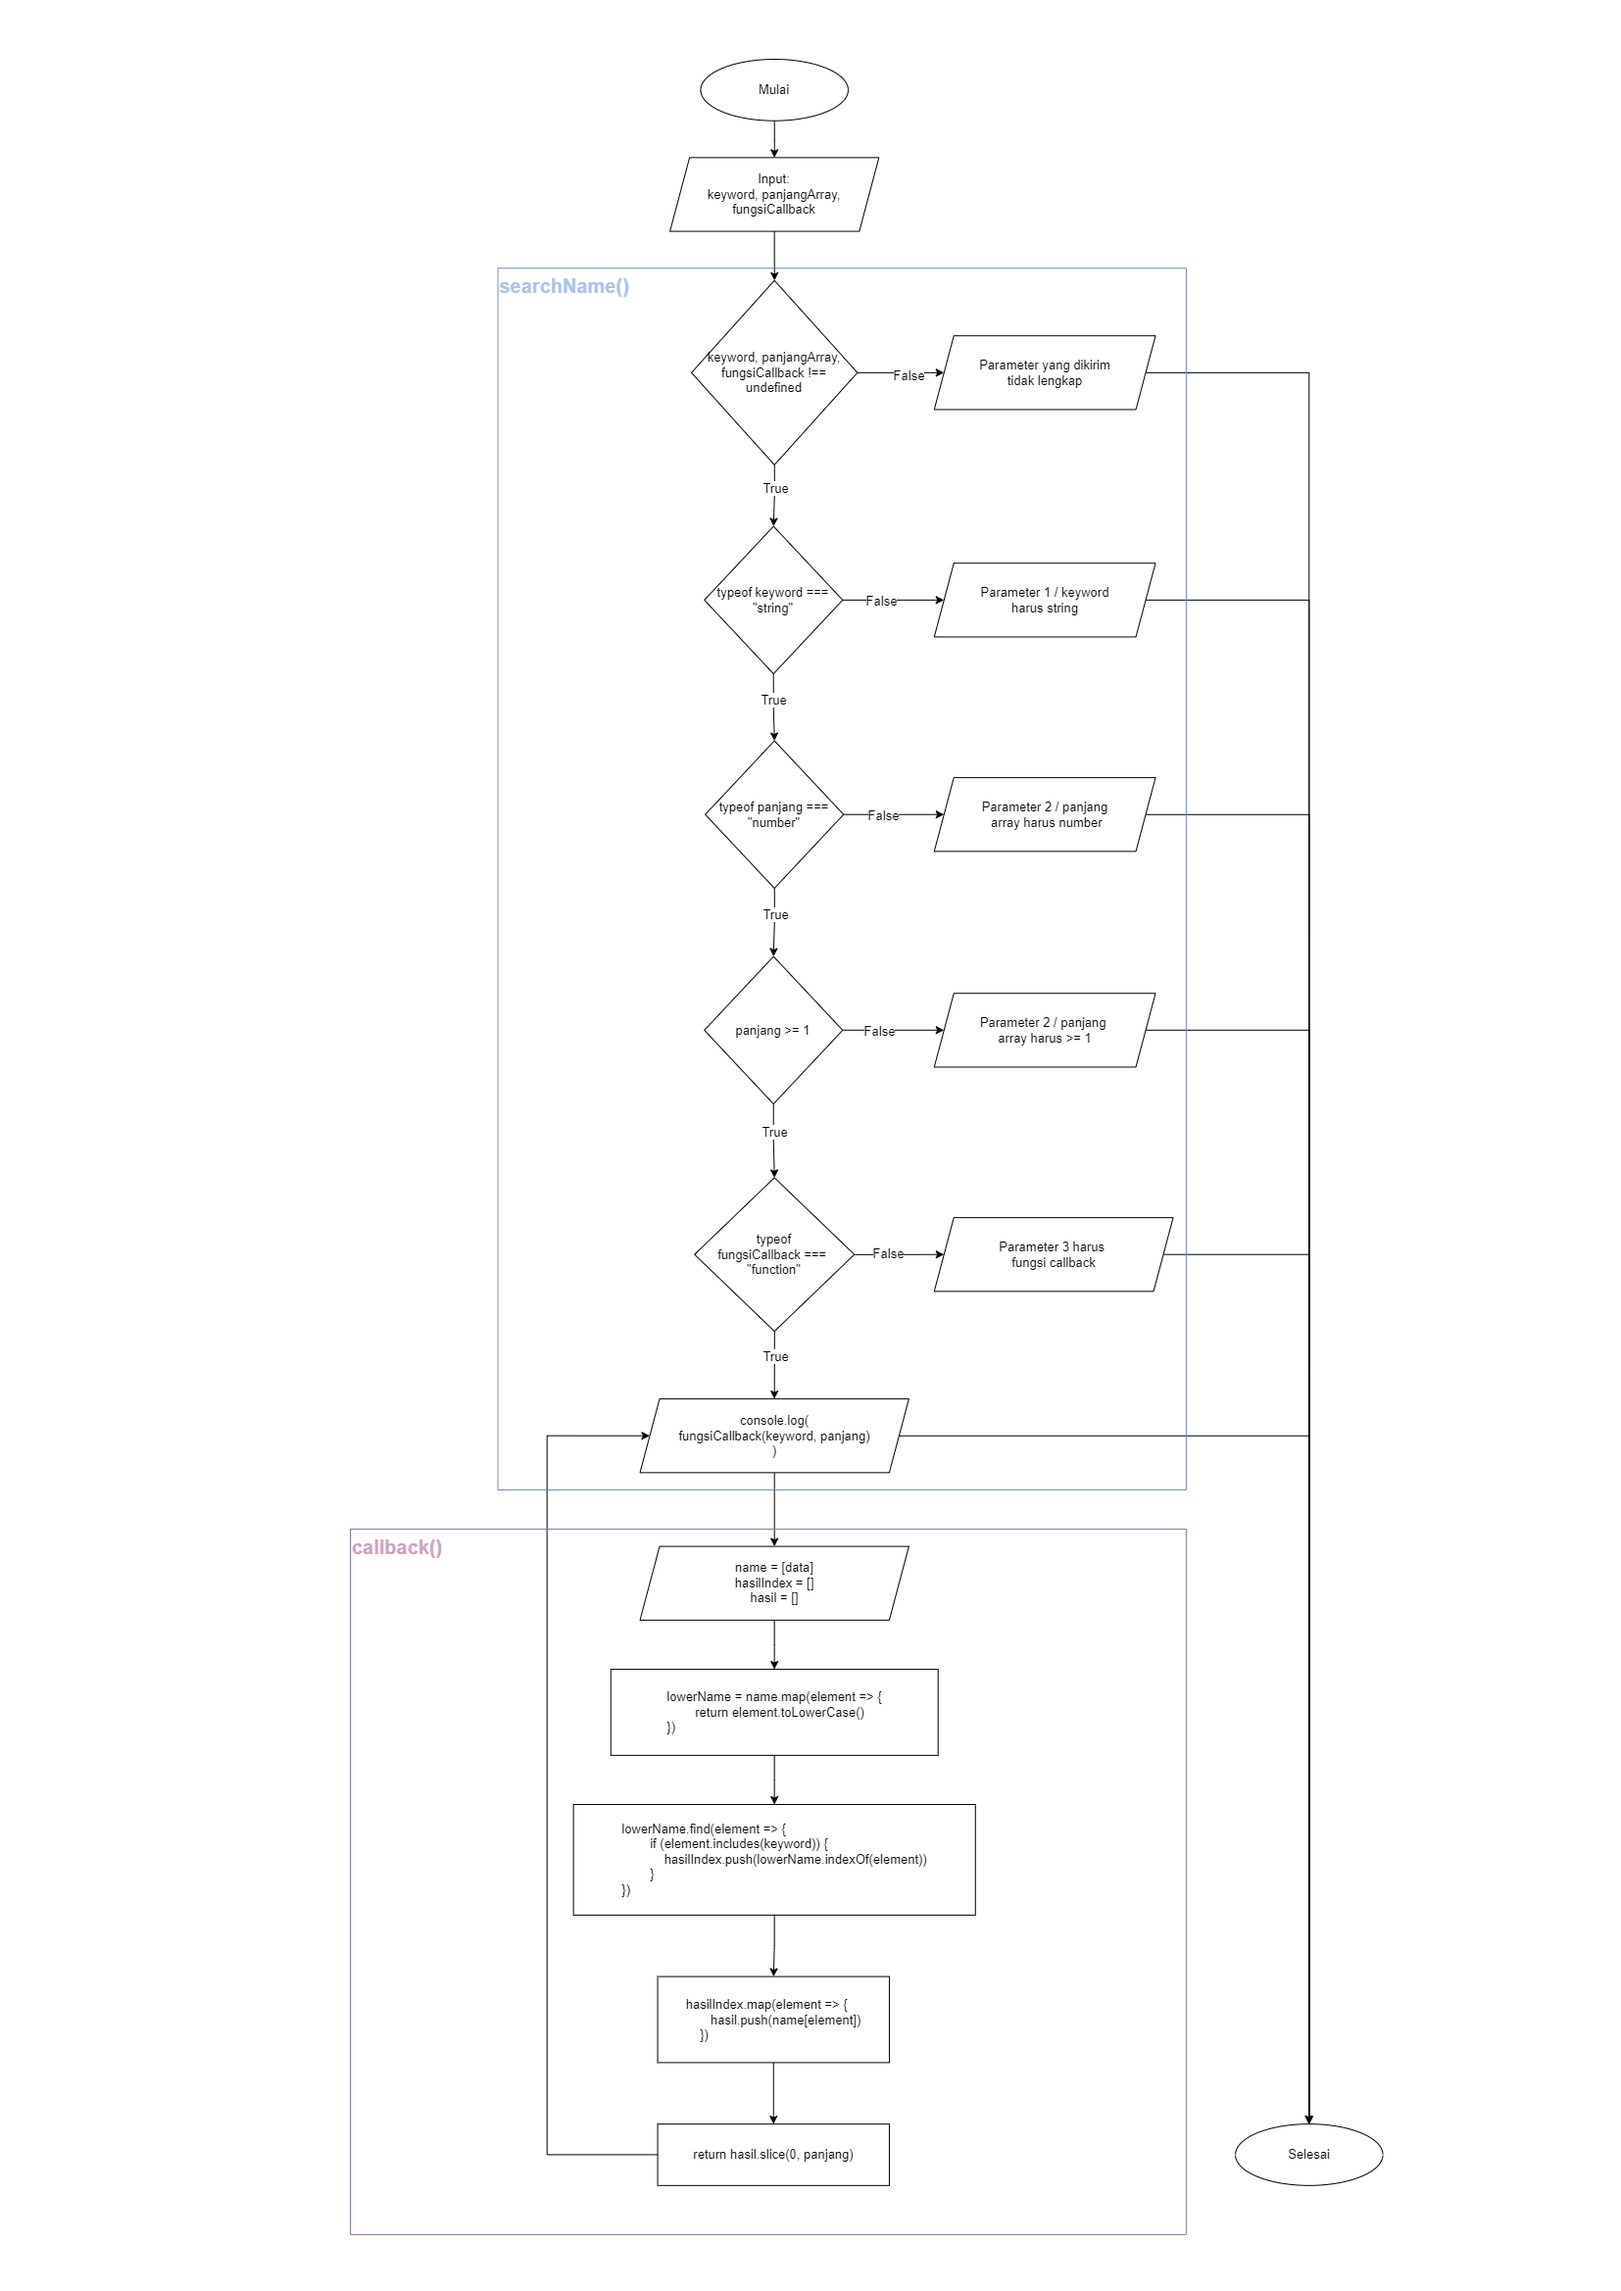
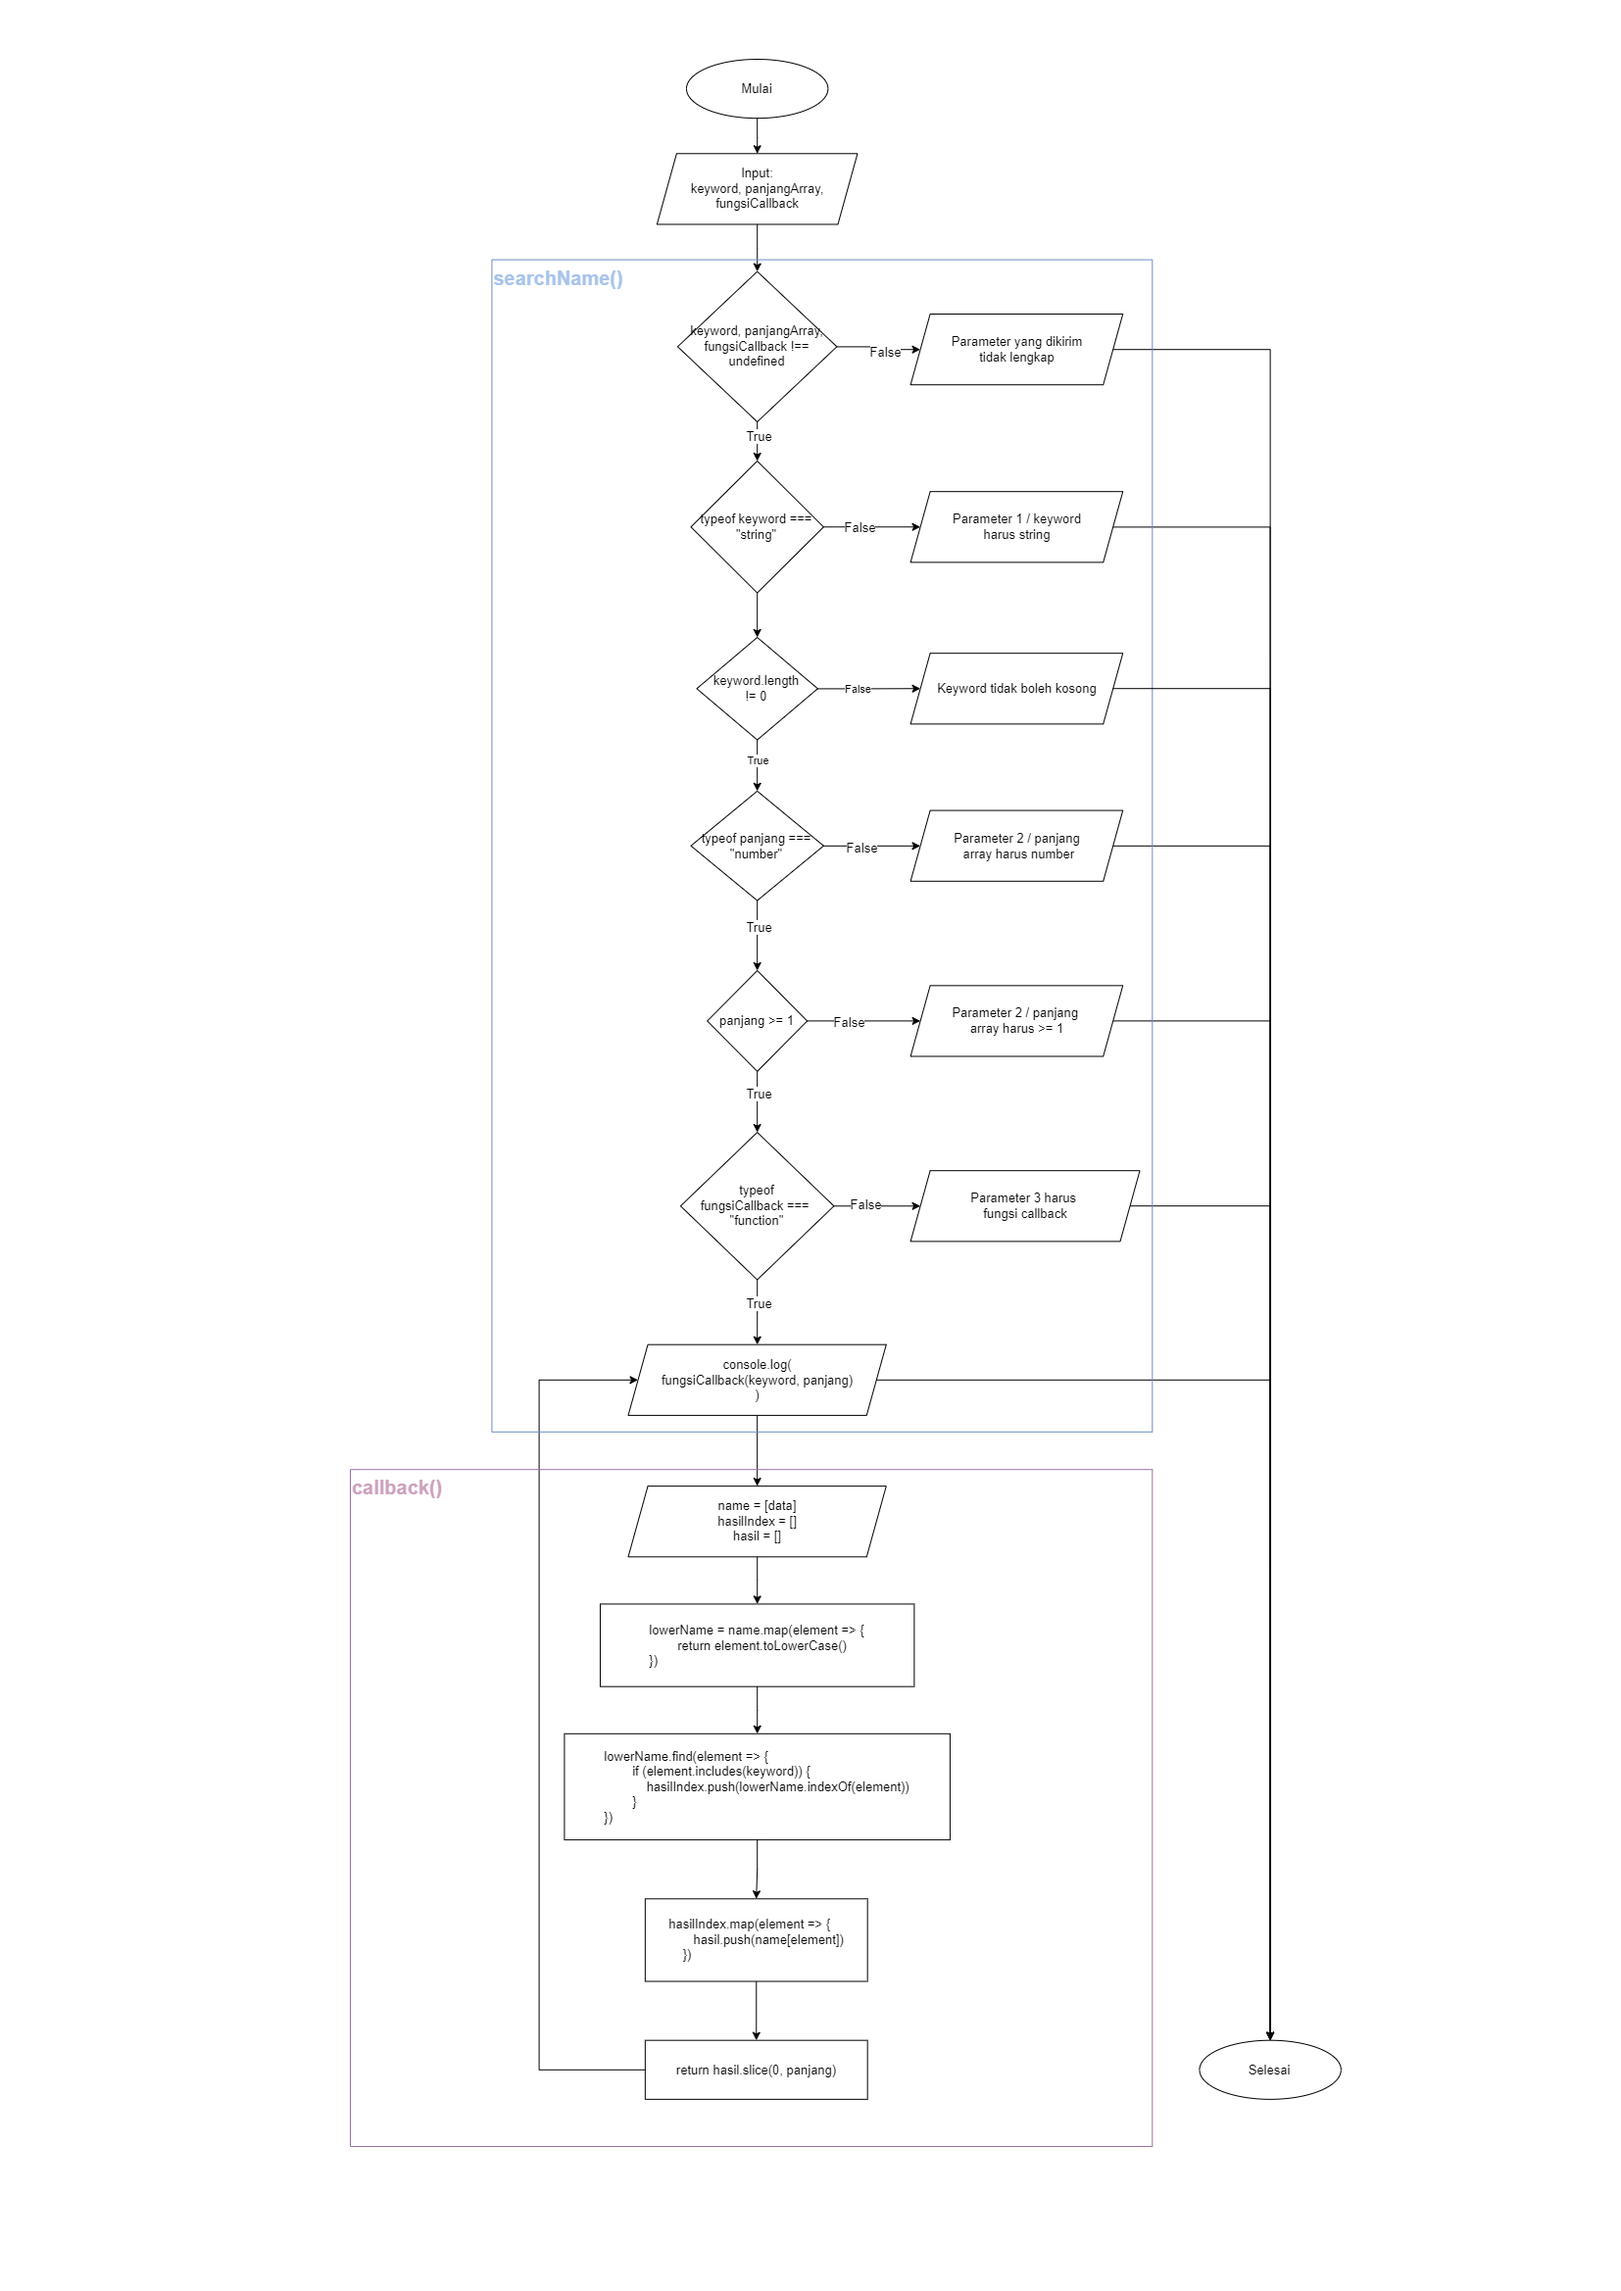
perbaikan flowchart dan program callback

diff --git a/Week2/Tugas Javascript Intro 2/1. method.js b/Week2/Tugas Javascript Intro 2/1. method.js
@@ -97,56 +97,70 @@ let trimText = '  PijarCamp '
 console.log("Nomor 16: ")
 console.log(trimText)
 console.log(trimText.trim())
-// Method yang berfungsi untuk menghapus spasi pada awal dan akhir string
+// => Method yang berfungsi untuk menghapus spasi pada awal dan akhir string
 
 // 17. toString
 let int = 5
 console.log("Nomor 17: ")
 console.log("integer: ", int + 2)
 console.log("String: ", int.toString() + 2)
+// => Method yang berfungsi untuk mengubah tipe data menjadi tipe data string
 
+console.log(" ")
+console.log(" ")
 
 // Built-in Array javascript
 // (kecuali : split, reverse, join, foreach, map)
 
 // 1. unshift
-var mahasiswa = ['Taufik', 'Kevin', 'Komarudin', 'Aldo']
+var mahasiswa = ['Taufik', 'Agus', 'Komarudin', 'Aldo']
 console.log("Data awal : ", mahasiswa)
-mahasiswa.unshift('Ayi')
+mahasiswa.unshift('Bagus')
 console.log("Setelah unshift() : ", mahasiswa)
+/* => Method yang berfungsi untuk menambahkan elemen baru pada sebuah array, 
+    elemen akan ditempatkan pada posisi awal (index 0)
+*/
 
 console.log(" ")
 
 // 2. shift
-var mahasiswa2 = ['kisana', 'Taufik', 'Kevin', 'Komarudin', 'Aldo']
+var mahasiswa2 = ['kisana', 'Taufik', 'Agus', 'Komarudin', 'Aldo']
 console.log("Data awal : ", mahasiswa2)
 mahasiswa2.shift('kisana')
 console.log("Setelah shift() : ", mahasiswa2)
+// => Method yang berfungsi untuk menghapus elemen pertama pada sebuah array
 
 console.log(" ")
 
 // 3. push
-var mahasiswa3 = ['Taufik', 'Kevin', 'Komarudin', 'Aldo']
+var mahasiswa3 = ['Taufik', 'Agus', 'Komarudin', 'Aldo']
 console.log("Data awal : ", mahasiswa3)
-mahasiswa3.push('Ayi')
+mahasiswa3.push('Bagus')
 console.log("Setelah push() : ", mahasiswa3)
+/* => Method yang berfungsi untuk menambahkan elemen baru pada sebuah array, 
+    elemen akan ditempatkan pada posisi akhir pada index
+*/
 
 console.log(" ")
 
 // 3. pop
-var mahasiswa4 = ['Taufik', 'Kevin', 'Komarudin', 'Aldo', 'kisana']
+var mahasiswa4 = ['Taufik', 'Agus', 'Komarudin', 'Aldo', 'kisana']
 console.log("Data awal : ", mahasiswa4)
-mahasiswa4.pop('Ayi')
+mahasiswa4.pop('Bagus')
 console.log("Setelah pop() : ", mahasiswa4)
+// => Method yang berfungsi untuk menghapus elemen array pada index yang terakhir
 
 console.log(" ")
 
 // 4. slice dan 5. splice
-var mahasiswa5 = ['Taufik', 'Kevin', 'Komarudin', 'Aldo', 'kisana']
+var mahasiswa5 = ['Taufik', 'Agus', 'Komarudin', 'Aldo', 'kisana']
 console.log("Data awal : ", mahasiswa5)
-console.log("Setelah slice() : ", mahasiswa5.slice(1, 2))
-console.log("Setelah splice() : ", mahasiswa5.splice(1, 2))
-
+console.log("Setelah slice() : ", mahasiswa5.slice(2))
+console.log("Setelah splice() : ", mahasiswa5.splice(2))
+console.log(mahasiswa5)
+/* => Method yang sama - sama berfungsi untuk memotong array, perbedaanya jika slice
+    tidak mempengaruhi nilai variabel, jika splice akan mempengaruhi nilainya.
+*/
 console.log(" ")
 
 // 6. some

diff --git a/Week2/Tugas Javascript Intro 2/2. callback.js b/Week2/Tugas Javascript Intro 2/2. callback.js
@@ -41,21 +41,26 @@ const searchName = (keyword, panjang, cari) => {
     if (keyword, panjang, cari !== undefined) {
         // validasi keyword harus string
         if (typeof keyword === "string") {
-            // validasi panjang array harus number
-            if (typeof panjang === "number") {
-                // validasi panjang array >= 1
-                if (panjang >= 1) { // karena 0.1 masih menghasilkan []
-                    // validasi cari harus merupakan fungsi
-                    if (typeof cari === "function") {
-                        console.log(cari(keyword, panjang))
+            // validasi keyword yang kosong
+            if (keyword.length != 0) {
+                // validasi panjang array harus number
+                if (typeof panjang === "number") {
+                    // validasi panjang array >= 1
+                    if (panjang >= 1) { // karena 0.1 masih menghasilkan []
+                        // validasi cari harus merupakan fungsi
+                        if (typeof cari === "function") {
+                            console.log(cari(keyword, panjang))
+                        } else {
+                            console.log("Parameter 3 harus fungsi callback")
+                        }
                     } else {
-                        console.log("Parameter 3 harus fungsi callback")
+                        console.log("Parameter 2 / panjang array harus >= 1")
                     }
                 } else {
-                    console.log("Parameter 2 / panjang array harus >= 1")
+                    console.log("Parameter 2 / panjang array harus number")
                 }
             } else {
-                console.log("Parameter 2 / panjang array harus number")
+                console.log("Keyword tidak boleh kosong")
             }
         } else {
             console.log("Parameter 1 / keyword harus string")
@@ -66,3 +71,11 @@ const searchName = (keyword, panjang, cari) => {
 }
 
 searchName("an", 3, callback)
+
+// testCase
+searchName()
+searchName(true, 3, callback)
+searchName("", 3, callback)
+searchName("an", true, callback)
+searchName("an", -1, callback)
+searchName("an", 3, "callback")
